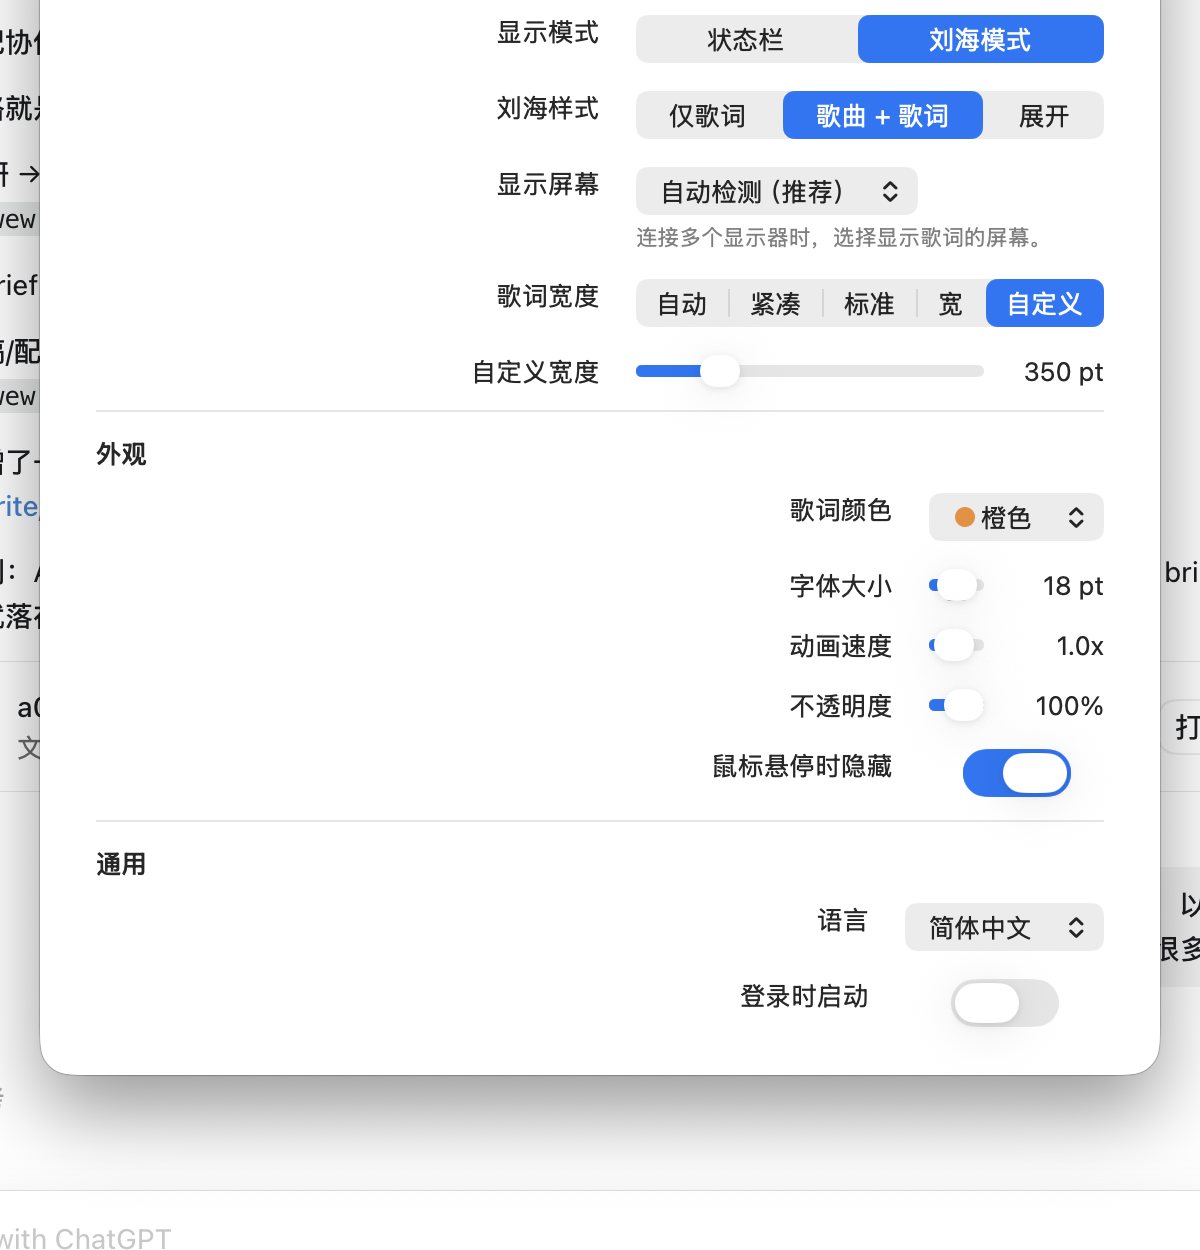
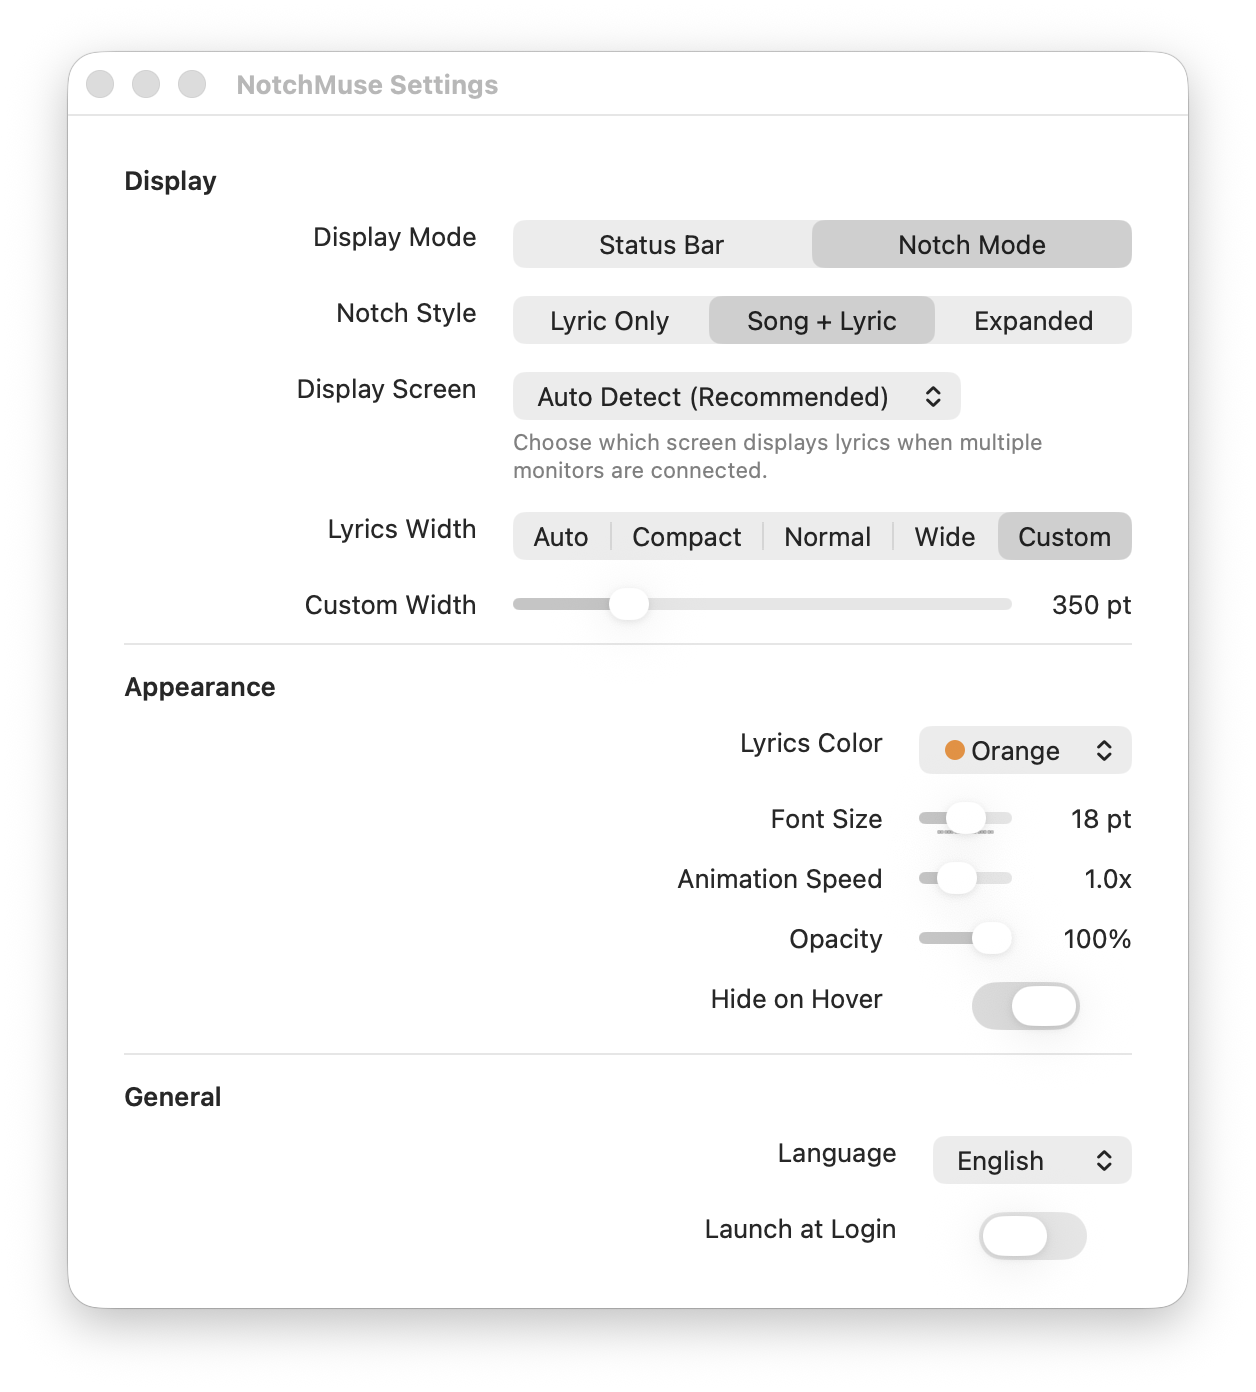
Finalize GitHub beta release checklist

diff --git a/reports/ux/final-ux-release-report.md b/reports/ux/final-ux-release-report.md
@@ -2,41 +2,47 @@
 
 Task: 04_UX Final Clean Install User Journey
 
-Status: Completed with Manual Permission Caveat
+Status: Completed with clean-user limitations
 
 Priority: P0
 
 ## Findings
 
-- `NotchMuse.app` launches from the generated release artifact.
-- The app appears as a single NotchMuse process.
-- Spotify is readable in the current user environment.
-- Lyrics display is visible in Status Bar / Notch Mode during the PM screenshot pass.
-- Settings can be opened through the NotchMuse menu.
-- DMG install simulation completed:
-  - DMG mounted.
-  - `NotchMuse.app` copied from DMG to a temporary `Applications` folder.
-  - Copied app launched successfully.
-  - NotchMuse process confirmed from the copied app path.
+- 测试对象：`dist.noindex/NotchMuse.dmg`
+- 版本信息：`0.3.0-beta`，build `3`，bundle id `app.notchmuse.mac`
[1 lines of base64/hex data omitted]
+- DMG 可挂载，挂载点为 `/Volumes/NotchMuse`。
+- DMG 内容符合预期：包含 `NotchMuse.app` 和指向 `/Applications` 的 `Applications` alias/symlink。
+- `/Applications/NotchMuse.app` 原本存在，但与 DMG 内 RC app 不一致；已用 DMG 内 `NotchMuse.app` 覆盖安装到 `/Applications`。
+- 安装后校验通过：`/Applications/NotchMuse.app` 与 DMG 内 `NotchMuse.app` 内容一致。
+- `codesign --verify --deep --strict` 通过。
+- `spctl` 返回 `rejected`，符合 GitHub unsigned beta 预期；这不是 Developer ID / notarization release。
+- 使用精确路径启动 `/Applications/NotchMuse.app` 成功，进程为 `/Applications/NotchMuse.app/Contents/MacOS/NotchMuse`。
+- Spotify 当前可读，测试时状态为 playing。
+- NotchMuse 菜单状态读取成功：
+  - `Spotify: Connected`
+  - `Lyrics: Available`
+  - `Song: Father Figure`
+  - `Artist: Taylor Swift`
+- 屏幕截图确认顶部 NotchMuse overlay 正在显示歌曲信息和歌词片段。
+- 测试结束后 DMG 已卸载，`/Applications/NotchMuse.app` 保持运行。
 
 ## Problems Found
 
-- macOS permission prompts cannot be fully re-triggered without a clean user account, test machine, or permission reset.
-- Gatekeeper `Control-click Open` / `Open Anyway` flow still needs final manual verification from the downloaded GitHub DMG because local builds do not fully reproduce browser download quarantine.
+- 本机不是 clean user 环境：已有 `app.notchmuse.mac` defaults，`HasShownFirstLaunchGuide = 1`，所以 First Launch Guide 不能作为 clean first launch 完整验收。
+- Spotify / Apple Events permission 没有出现新弹窗，推断是本机已有权限或授权状态；本轮只能确认授权后路径可用。
+- macOS unsigned app security warning / Open Anyway 没有完整复现；本地 app 复制安装后可启动，但 GitHub 下载后的 quarantine 场景仍需要 clean machine 验证。
+- Accessibility permission 未纳入本轮核心路径；只有使用 Status Bar + Left 时才需要单独验证。
 
 ## Recommended Actions
 
-- Optional final manual install from the uploaded GitHub Release DMG:
-  - download DMG from GitHub
-  - open DMG
-  - drag to Applications
-  - launch with unsigned Gatekeeper flow
-  - allow Spotify Automation
-  - play Spotify track
-  - confirm lyrics
-  - open Settings
-  - quit and relaunch
+- GitHub Release notes 必须明确说明 unsigned beta 的打开方式：Control-click / right-click NotchMuse -> Open；如仍被拦截，进入 System Settings -> Privacy & Security -> Open Anyway。
+- 用 clean macOS user 或 VM 再跑一次 GitHub 下载版 DMG，重点验证 quarantine、First Launch Guide、Apple Events permission 弹窗。
+- 发布前保留本次 SHA-256，方便用户校验 DMG。
+- 若 beta 面向普通非技术用户，建议把 unsigned app warning 作为 README 和 Release notes 的第一屏安装说明。
 
 ## Need PM Decision
 
-- Confirm whether current-user + DMG simulation is enough for beta, or whether a clean macOS user account must be used before publishing.
+- 是否接受 GitHub unsigned beta 在 clean-user 权限弹窗未完整复现的情况下发布。
+- 是否要求在 Apple Silicon clean VM 上补一次 GitHub 下载路径验证。
+- 是否把 Accessibility Left position 权限验证列为 v0.3.0-beta release blocker。

diff --git a/reports/release/final-repository-verification-report.md b/reports/release/final-repository-verification-report.md
@@ -1,0 +1,76 @@
+# Final Repository Verification Report
+
+Task: NotchMuse v0.3.0-beta Release Candidate Freeze - 01_APP Git Release State Verification
+
+Status: Completed
+
+Priority: P0
+
+## Findings
+
+- 当前仓库分支：`main`
+- 当前 HEAD：`a01ad39 Update final beta artifact checksum`
+- NotchMuse App Beta RC 必要文件已进入 Git tracking：
+  - `CHANGELOG.md`
+  - `RELEASE_CHECKLIST.md`
+  - `RELEASE_NOTES_0.3.0-beta.md`
+  - `scripts/build_dmg.sh`
+  - `scripts/build_release.sh`
+  - `MenuBarLyrics/Resources/NotchMuse.entitlements`
+  - `MenuBarLyrics/Resources/en.lproj/*`
+  - `MenuBarLyrics/Resources/zh-Hans.lproj/*`
+  - `MenuBarLyrics/Sources/MenuBarLyrics/AccessibilityManager.swift`
+  - `MenuBarLyrics/Sources/MenuBarLyrics/AppLocalization.swift`
+  - `MenuBarLyrics/Sources/MenuBarLyrics/DebugLog.swift`
+  - `MenuBarLyrics/Sources/MenuBarLyrics/SettingsWindowController.swift`
+  - `MenuBarLyrics/Sources/MenuBarLyrics/SodaMusicLyricsSource.swift`
+  - `reports/release/01-app-final-build-verification-report.md`
+- 当前 App build dependency 简单：
+  - Swift Package Manager
+  - Apple Command Line Tools
+  - macOS 14+
+  - Apple Silicon / `arm64`
+  - `MenuBarLyrics/Package.swift` 中无第三方 Swift package dependency
+- Fresh clone verification 已执行：
+  - Clone path: `/tmp/notchmuse-final-clone-a01ad39-1784439463`
+  - Clone HEAD: `a01ad39 Update final beta artifact checksum`
+  - Debug command: `swift run --package-path /tmp/notchmuse-final-clone-a01ad39-1784439463/MenuBarLyrics NotchMuse --self-test`
+  - Debug result: `Self-tests passed`
+- Fresh clone Release build 已执行：
+  - Command: `/tmp/notchmuse-final-clone-a01ad39-1784439463/scripts/build_release.sh 0.3.0-beta 3`
+  - Result: `Release candidate: /tmp/notchmuse-final-clone-a01ad39-1784439463/dist.noindex/NotchMuse.dmg`
+  - DMG verify: `checksum ... is VALID`
+  - Release self-test: `Self-tests passed`
+- Release artifact metadata：
+  - Bundle Identifier: `app.notchmuse.mac`
+  - Version: `0.3.0-beta`
+  - Build: `3`
+  - Binary: `Mach-O 64-bit executable arm64`
+  - Code signature structure: `codesign --verify --deep --strict` passed
+
+## Problems Found
+
+- 当前 artifact 仍是 ad-hoc signed：
+  - `build_release.sh` 明确提示 `macOS Gatekeeper warning is expected`
+  - 这不阻止 GitHub Beta 发布，但会影响普通用户首次打开体验
+- 当前仍有 3 个未进入 Git tracking 的截图资产：
+  - `docs/assets/notch-mode.png`
+  - `docs/assets/settings.png`
+  - `docs/assets/status-bar.png`
+  - 这些文件看起来属于文档/Release screenshot，不属于 01_APP core build blocker
+
+## Recommended Actions
+
+- 以当前 `main` 的 `a01ad39` 作为 App RC repository baseline。
+- GitHub Release Notes 需要明确说明：
+  - 当前 Beta 是 Apple Silicon only
+  - 当前 DMG 是 ad-hoc signed
+  - 如遇 Gatekeeper，需要使用 `System Settings > Privacy & Security > Open Anyway`
+- 不要把 `.build/`、`dist.noindex/`、`.DS_Store` 加入 release commit。
+
+## Need PM Decision
+
+- 是否接受 `0.3.0-beta` build `3` 作为最终 GitHub Beta build？
+- 是否接受 ad-hoc signed DMG 发布，还是必须先完成 Developer ID signing + notarization？
+- `docs/assets/*.png` 是否纳入 GitHub Release docs commit？
+- `lyrics-provider-benchmark/` 是否作为独立项目另行开源，而不是放入 NotchMuse App release？

diff --git a/reports/github/final-documentation-ready-report.md b/reports/github/final-documentation-ready-report.md
@@ -2,32 +2,44 @@
 
 Task: 06_DOCS GitHub Release Visual Package
 
-Status: Completed with Minor Risk
+Status: Completed
 
 Priority: P0
 
 ## Findings
 
-- README is GitHub-facing and includes release-ready installation, unsigned beta warning, Architecture, Lyrics Quality, Known Issues, Build From Source, Test, Privacy, and License sections.
-- Release Notes exist at `RELEASE_NOTES_0.3.0-beta.md`.
-- Minimum screenshot files exist:
-  - `docs/assets/screenshots/status-bar-mode.png`
-  - `docs/assets/screenshots/notch-mode-crop.png`
-  - `docs/assets/screenshots/settings-window.png`
-- README references the screenshot files.
-- Demo GIF is deferred.
+- 已完成 GitHub Release Visual Package 的最低截图要求。
+- README 已引用 3 张实际 PNG：
+  - Status Bar Mode: `docs/assets/screenshots/status-bar-mode.png`
+  - Notch Mode: `docs/assets/screenshots/notch-mode-crop.png`
+  - Settings: `docs/assets/screenshots/settings-window.png`
+- 三张截图均来自当前本机 `dist.noindex/NotchMuse.app` 运行状态，没有修改 Swift 代码或核心 App 逻辑。
+- Notch Mode 和 Settings 使用 window-level screenshot，画面较干净。
+- Status Bar Mode 使用 Status Bar overlay window 截图，能展示菜单栏歌词形态。
+- README 已保留 Demo GIF plan，并明确 Demo GIF 在 beta freeze 阶段可因成本高延期。
+- README 仍保持面向 GitHub 用户的英文说明，Installation 已包含 unsigned macOS security warning、Control-click `Open`、`Open Anyway`。
 
 ## Problems Found
 
-- Settings screenshot is acceptable as a beta asset but should be manually re-captured cleaner before a polished public showcase.
-- Demo GIF is not available.
+- Demo GIF 尚未生成；当前按“可选，成本高则延期”处理。
+- Status Bar Mode 截图受歌词滚动窗口宽度限制，只展示当前滚动片段，不是完整长句。
+- 截图内容来自当前 Spotify 播放状态，歌曲名/歌词会随现场播放变化；如果 PM 希望品牌更统一，需要指定曲目后重截。
+- 当前截图没有额外做营销排版或设备外框，只是最小可用 release screenshots。
 
 ## Recommended Actions
 
-- Ship the first GitHub beta with the three screenshots.
-- Defer Demo GIF unless Product Owner wants a more polished launch page.
+- 当前 3 张截图可用于 v0.3.0-beta Release Candidate Freeze。
+- GitHub Release 页面可直接使用 README 中已有图片引用。
+- Demo GIF 建议延期到 beta 发布后或 Distribution Phase：
+  - 路径：`docs/assets/notchmuse-demo.gif`
+  - 时长：10-15 秒
+  - 内容：Spotify playback -> live lyrics -> switch display mode -> open Settings
+- 如果发布前还有 10 分钟视觉 polish 时间，优先重截 Status Bar Mode，等待短歌词或较完整滚动位置再抓。
+- 不建议为本次 freeze 增加设计包装、视频剪辑或新视觉系统；最低 release package 已满足。
 
 ## Need PM Decision
 
-- Confirm Demo GIF is not required for `v0.3.0-beta`.
-- Confirm Chinese UI screenshots are acceptable for the first beta.
+- 是否接受当前 3 张最小截图作为 v0.3.0-beta GitHub Release visual package。
+- 是否要求指定一首固定歌曲重截截图。
+- Demo GIF 是否确认延期到 beta 之后。
+- 是否需要在 Release Notes 中显式写明 “Demo GIF deferred”。

diff --git a/PROJECT_STATUS.md b/PROJECT_STATUS.md
@@ -12,9 +12,9 @@ GitHub Open Source Beta Release without expanding product scope.
 
 ## Release Status
 
-Status: In Progress
+Status: Ready for GitHub Pre-release
 
-Readiness Score: `94/100`
+Readiness Score: `96/100`
 
 Current candidate:
 - Version: `0.3.0-beta`
@@ -55,6 +55,9 @@ Verified:
 - Minimum screenshots added to `docs/assets/screenshots/`.
 - DMG install simulation completed from mounted DMG to a temporary Applications folder.
 - Copied app launched successfully from the simulated install path.
+- Repository safety audit completed with no API keys, tokens, private keys, or credentials found.
+- GitHub release requirement audit completed.
+- Final release publish checklist completed.
 
 Not release-ready:
 - Gatekeeper quarantine flow from an actual GitHub-downloaded DMG is not manually verified.
@@ -69,7 +72,8 @@ Critical:
 High:
 - Verify Gatekeeper `Control-click Open` / `Open Anyway` flow from the uploaded GitHub DMG.
 - Verify first-launch Spotify Apple Events permission flow on a clean user account if Product Owner requires stricter QA.
-- Add SHA-256 checksum to GitHub Release.
+- Add SHA-256 checksum to GitHub Release body.
+- Configure GitHub remote before push/publish.
 
 Medium:
 - Recapture cleaner Settings screenshot before a polished public showcase.
@@ -116,6 +120,10 @@ Medium:
   - `reports/release/01-app-final-build-verification-report.md`
   - `reports/github/final-documentation-ready-report.md`
   - `reports/ux/final-ux-release-report.md`
+- Completed Final GitHub Beta Release Checklist reports:
+  - `reports/release/repository-safety-report.md`
+  - `reports/github/github-documentation-ready-report.md`
+  - `reports/release/release-publish-checklist.md`
 
 ## In Progress Tasks
 
@@ -132,3 +140,4 @@ Medium:
 - Decide whether README should display `63.6%` VPS benchmark coverage or describe it as an internal quality benchmark.
 - Confirm final GitHub tag `v0.3.0-beta` and build number `3`.
 - Decide whether SHA-256 checksum is required as separate asset or release body text only.
+- Add GitHub remote URL.

diff --git a/reports/release/repository-safety-report.md b/reports/release/repository-safety-report.md
@@ -1,0 +1,33 @@
+# Repository Safety Report
+
+Task: 01_APP Final Repository Audit
+
+Status: Completed
+
+Priority: P0
+
+## Findings
+
+- Final release baseline before this checklist: `a01ad39`.
+- Required source code, release docs, screenshots, scripts, and benchmark files are tracked or staged for the final checklist commit.
+- Required screenshots exist:
+  - `docs/assets/screenshots/status-bar-mode.png`
+  - `docs/assets/screenshots/notch-mode-crop.png`
+  - `docs/assets/screenshots/settings-window.png`
+- Secret scan found no API keys, tokens, private keys, or credentials.
+- Public-path scan found only local temp paths in reports/scripts, not user credentials.
+
+## Problems Found
+
+- Working tree had final report/screenshot updates after `a01ad39`; these must be committed before tagging.
+- No public credential blocker found.
+
+## Recommended Actions
+
+- Commit final checklist/report updates.
+- Tag the final commit as `v0.3.0-beta`.
+- Keep `dist.noindex/`, `.build/`, and `.DS_Store` out of Git.
+
+## Need PM Decision
+
+- None for repository safety.

diff --git a/reports/release/release-publish-checklist.md b/reports/release/release-publish-checklist.md
@@ -1,0 +1,36 @@
+# Release Publish Checklist
+
+Task: 02_RELEASE Final Release Checklist
+
+Status: Ready
+
+Priority: P0
+
+## Findings
+
+- Version: `0.3.0-beta`
+- Build: `3`
+- Tag to create: `v0.3.0-beta`
+- Release artifact exists: `dist.noindex/NotchMuse.dmg`
+- SHA-256 exists: `dist.noindex/NotchMuse.dmg.sha256`
+- Current SHA-256:
+
+```text
+f956eb31915ea8c69431c93542e6a34797d3e081c4f493872faa254c79664c99  NotchMuse.dmg
+```
+
+## Problems Found
+
+- No release artifact blocker found.
+- GitHub remote is not configured locally, so publishing must happen after a remote is added or through the GitHub UI.
+
+## Recommended Actions
+
+- Commit final checklist updates.
+- Create tag `v0.3.0-beta`.
+- Push branch and tag after GitHub remote is configured.
+- Create GitHub Pre-release and upload `NotchMuse.dmg`.
+
+## Need PM Decision
+
+- Confirm GitHub repository remote URL before push/publish.

diff --git a/reports/github/github-documentation-ready-report.md b/reports/github/github-documentation-ready-report.md
@@ -1,0 +1,33 @@
+# GitHub Documentation Ready Report
+
+Task: 06_DOCS GitHub Release Requirement Audit
+
+Status: Completed
+
+Priority: P0
+
+## Findings
+
+- `README.md` exists.
+- `LICENSE` exists.
+- `RELEASE_NOTES_0.3.0-beta.md` exists.
+- Screenshots exist under `docs/assets/screenshots/`.
+- README contains required public sections:
+  - Features
+  - Installation
+  - Unsigned Beta Notice
+  - Known Issues
+
+## Problems Found
+
+- Demo GIF is not present, but it is optional for this beta.
+
+## Recommended Actions
+
+- Use `RELEASE_NOTES_0.3.0-beta.md` as the GitHub Pre-release body.
+- Upload `NotchMuse.dmg`.
+- Include SHA-256 in the release body.
+
+## Need PM Decision
+
+- None for documentation readiness.

diff --git a/README.md b/README.md
@@ -29,6 +29,7 @@ Demo GIF plan:
 - `docs/assets/notchmuse-demo.gif`
 - 10-15 seconds
 - Show Spotify playback, live lyrics, switching display mode, and opening Settings
+- Deferred for the beta freeze if capture cost is high.
 
 ## Requirements
 
